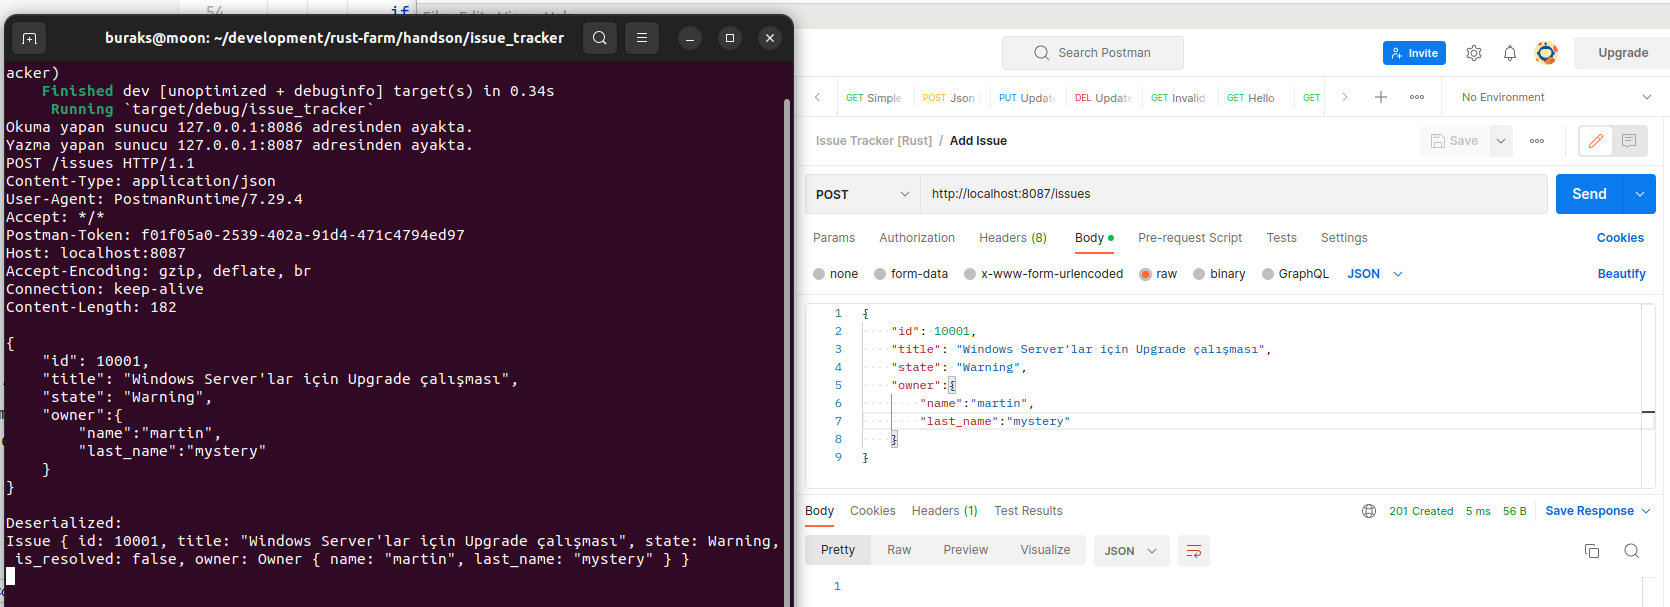
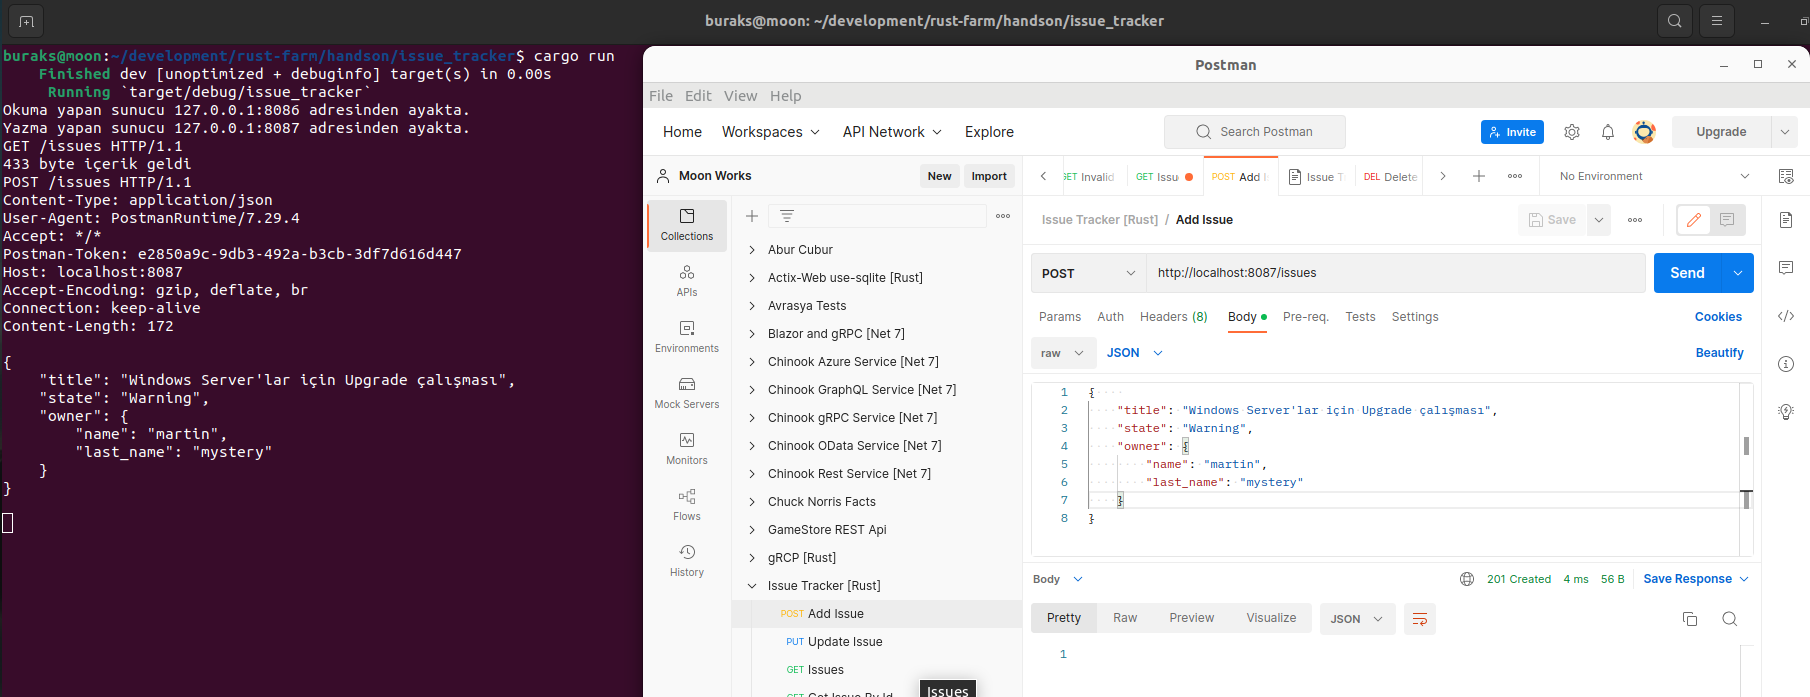
Updated readme document.

diff --git a/handson/issue_tracker/Readme.md b/handson/issue_tracker/Readme.md
@@ -26,7 +26,6 @@ Issue ve Owner veri yapıları için ters serileştirme işlevselliklerini ekled
 
 ```json
 {
-    "id": 10001,
     "title": "Windows Server'lar için Upgrade çalışması",
     "state": "Warning",
     "owner":{
@@ -42,19 +41,25 @@ Belli bir issue'yu çeken GET operasyonu da aşağıdaki gibi çalışmakta.
 
 ![../images/issue_tracker_03.png](../images/issue_tracker_03.png)
 
+Belli bir issue'yu silmek için DELETE operasyonu da aşağıdaki gibi çalışmakta.
+
 ![../images/issue_tracker_04.png](../images/issue_tracker_04.png)
 
 Bir Issue'nun bilgilerini güncellemek için de PUT operasyonundan yararlanılabiliyor.
 
 ![../images/issue_tracker_05.png](../images/issue_tracker_05.png)
 
-## Yapmak İstediklerim
+## Yapılacaklar
 
-- [x] HTTP Post ile server tarafına Issue kaydı alabilmeliyim.
-- [x] Issue için ters serileştirme işlevleri gerekiyor.
-- [x] Server tarafı asenkron çalışacak hale getirilebilir.
-- [x] Handler kısmı Read Request ve Write Response şeklinde ayrıştırılabilir. 
+- [x] HTTP Post ile server tarafına Issue kaydı alınması.
+- [x] Issue için ters serileştirme işlevleri.
+- [x] Server tarafının asenkron çalıştırılması.
+- [x] Handler kısmının talepleri okuma ve yazma noktasında ikiye ayrılması. 
 - [x] Get/{id} işlevselliğinin kazandırılması.
-- [x] Delete ve hatta Put işlevsellikleri eklenmeli.
-- [ ] Issue'lar ilk etapta sıkıştırılmış bir dosya da saklanabilir _(DB kullanırsam DB ile konuşturma noktasında saf Rust işlevleri ile nasıl ilerleyeceğim. Bu önemli bir soru işaret :D )_
+- [x] Delete/{id} ve Put işlevsellikleri.
+- [x] Issue verilerindeki Id değerinin GUID türüne dönüştürülmesi.
+- [ ] Sisteme asenkron bir event kurgusunun eklenmesi ve aşağıdaki olayların takibi.
+  - [ ] Yeni bir Issue eklendiğinde olay bilgisi yayınlanması.
+  - [ ] Bir Issue state değişikliğine uğradığında olay bilgisi yayınlanması.
+- [ ] Persistancy mod eklenmesi _(DB kullanılırsa DB ile konuşturma noktasında saf Rust işlevleri ile nasıl ilerlenebilir? İlk etapta dosyaya binary yazma düşünülebilir mi? )_
 
